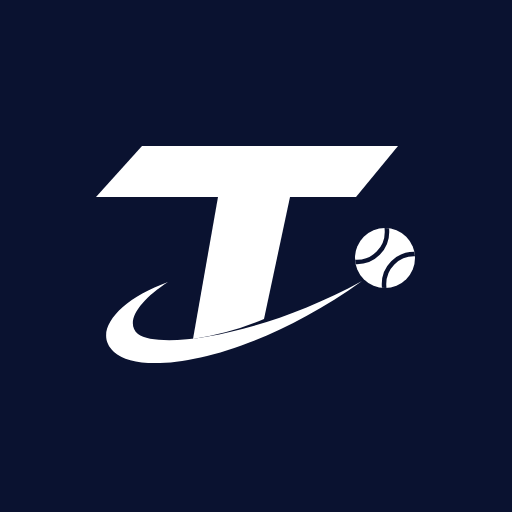
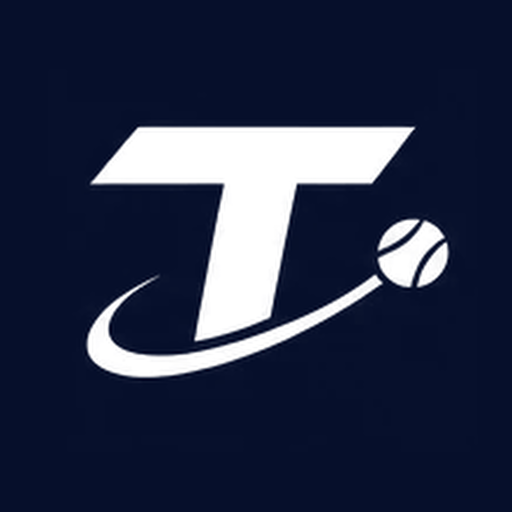
tennis-vision: use the supplied Tracer Tennis artwork and colors
Claude-Session: https://claude.ai/code/session_018T4TvxJxD2XdEnCbcizzWN

Changed region(s): [[0.1562, 0.2188, 0.875, 0.75]]

diff --git a/tennis-vision/app/static/index.html b/tennis-vision/app/static/index.html
@@ -6,21 +6,21 @@
 <meta name="apple-mobile-web-app-capable" content="yes">
 <meta name="apple-mobile-web-app-title" content="Tracer Tennis">
 <meta name="apple-mobile-web-app-status-bar-style" content="black-translucent">
-<meta name="theme-color" content="#0a1230">
+<meta name="theme-color" content="#060f2b">
 <link rel="manifest" href="/static/manifest.webmanifest">
 <link rel="apple-touch-icon" href="/static/icon-180.png">
 <link rel="icon" type="image/png" href="/static/icon-192.png">
 <title>Tracer Tennis</title>
 <style>
 :root {
-  --bg: #f5f7fc; --card: #ffffff; --ink: #0a1230; --muted: #56607a; --line: #dce2ef;
-  --accent: #1769ff; --accent-ink: #ffffff; --good: #12855a; --ok: #b7791f; --work: #c2410c; --info: #64748b;
-  --chip: #e7ecf8; --court: #2f6b4a; --court-line: #f5f7f2; --head: #0a1230; --head-ink: #ffffff; --head-link: #8fbaff;
+  --bg: #f6f8fd; --card: #ffffff; --ink: #060f2b; --muted: #56607a; --line: #dce2ef;
+  --accent: #005efd; --accent-ink: #ffffff; --good: #12855a; --ok: #b7791f; --work: #c2410c; --info: #64748b;
+  --chip: #e7ecf8; --court: #2f6b4a; --court-line: #f5f7f2; --head: #060f2b; --head-ink: #ffffff; --head-link: #8fbaff;
 }
 @media (prefers-color-scheme: dark) {
   :root {
-    --bg: #060b1f; --card: #0f1836; --ink: #eef2fb; --muted: #9aa6c4; --line: #1f2a4d;
-    --accent: #3d8bff; --accent-ink: #04102b; --good: #3ecf8e; --ok: #e3b34f; --work: #ff8a5c; --info: #94a3b8;
+    --bg: #060f2b; --card: #0e1a40; --ink: #eef2fb; --muted: #9aa6c4; --line: #1f2d57;
+    --accent: #2f7dff; --accent-ink: #ffffff; --good: #3ecf8e; --ok: #e3b34f; --work: #ff8a5c; --info: #94a3b8;
     --chip: #18234a; --court: #265c40; --court-line: #dfe8e1;
   }
 }
@@ -29,12 +29,10 @@ html { -webkit-text-size-adjust: 100%; }
 body { margin: 0; background: var(--bg); color: var(--ink); font: 16px/1.45 -apple-system, BlinkMacSystemFont, "Segoe UI", Roboto, sans-serif; }
 header { position: sticky; top: 0; z-index: 5; background: var(--head); border-bottom: 1px solid var(--line);
   padding: calc(10px + env(safe-area-inset-top)) 16px 10px; display: flex; align-items: center; justify-content: space-between; }
-header a.brand { display: flex; align-items: center; gap: 8px; color: var(--head-ink); text-decoration: none; }
-header a.brand img { width: 34px; height: 34px; display: block; }
-header a.brand .word { display: flex; flex-direction: column; line-height: 1; }
-header a.brand .word b { font-size: 16px; font-weight: 800; letter-spacing: 0.12em; font-style: italic; }
-header a.brand .word span { font-size: 9.5px; font-weight: 700; letter-spacing: 0.42em; color: var(--head-link); margin-top: 3px; }
-header nav a { color: var(--head-link); text-decoration: none; font-weight: 600; margin-left: 14px; font-size: 15px; }
+header a.brand { display: flex; align-items: center; gap: 6px; text-decoration: none; }
+header a.brand img { display: block; height: 34px; width: auto; }
+header a.brand img.word { height: 30px; }
+header nav a { color: var(--head-link); text-decoration: none; font-weight: 600; margin-left: 12px; font-size: 15px; }
 main { max-width: 760px; margin: 0 auto; padding: 16px 16px calc(40px + env(safe-area-inset-bottom)); }
 h1 { font-size: 24px; margin: 8px 0 4px; letter-spacing: -0.02em; }
 h2 { font-size: 18px; margin: 28px 0 10px; letter-spacing: -0.01em; }
@@ -100,7 +98,7 @@ svg { display: block; width: 100%; height: auto; }
 </head>
 <body>
 <header>
-  <a class="brand" href="#/" aria-label="Tracer Tennis home"><img src="/static/logo-mark.svg" alt=""><span class="word"><b>TRACER</b><span>TENNIS</span></span></a>
+  <a class="brand" href="#/" aria-label="Tracer Tennis home"><img src="/static/logo-mark.png" alt="" width="48" height="34"><img class="word" src="/static/wordmark.png" alt="Tracer Tennis" width="121" height="30"></a>
   <nav><a href="#/new/swing">Swing</a><a href="#/new/lesson">Lesson</a><a href="#/new/match">Match</a></nav>
 </header>
 <main id="view"></main>

diff --git a/tennis-vision/README.md b/tennis-vision/README.md
@@ -47,9 +47,9 @@ anywhere while the computer is on. The alternative is to run this on a rented cl
 **Who can reach it.** There is no login. Anyone on the same Wi-Fi who knows the address can upload videos and see
 reports, so run it on a home network, not a public one.
 
-**Icon.** The app icon is a redraw of the Tracer Tennis mark (`app/static/logo-mark.svg`). To use the original
-artwork instead, run `python -m app.icons path/to/app-icon.png` with a square image of the icon; it writes the
-three sizes the home screen uses.
+**Icon.** The icon, logo mark and wordmark in `app/static` are cut from the Tracer Tennis brand sheet. To change
+the icon, run `python -m app.icons path/to/app-icon.png` with a square image; it writes the three sizes the home
+screen uses.
 
 Developer start, without the launcher: `pip install -r requirements.txt` then `python -m app.server`.
 
